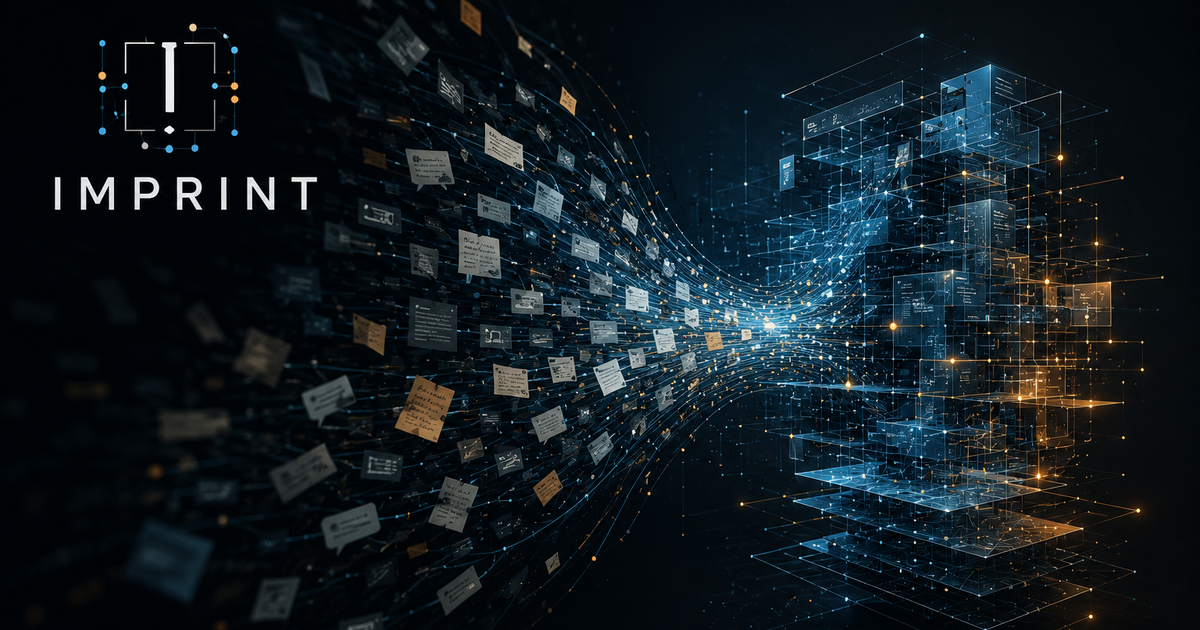
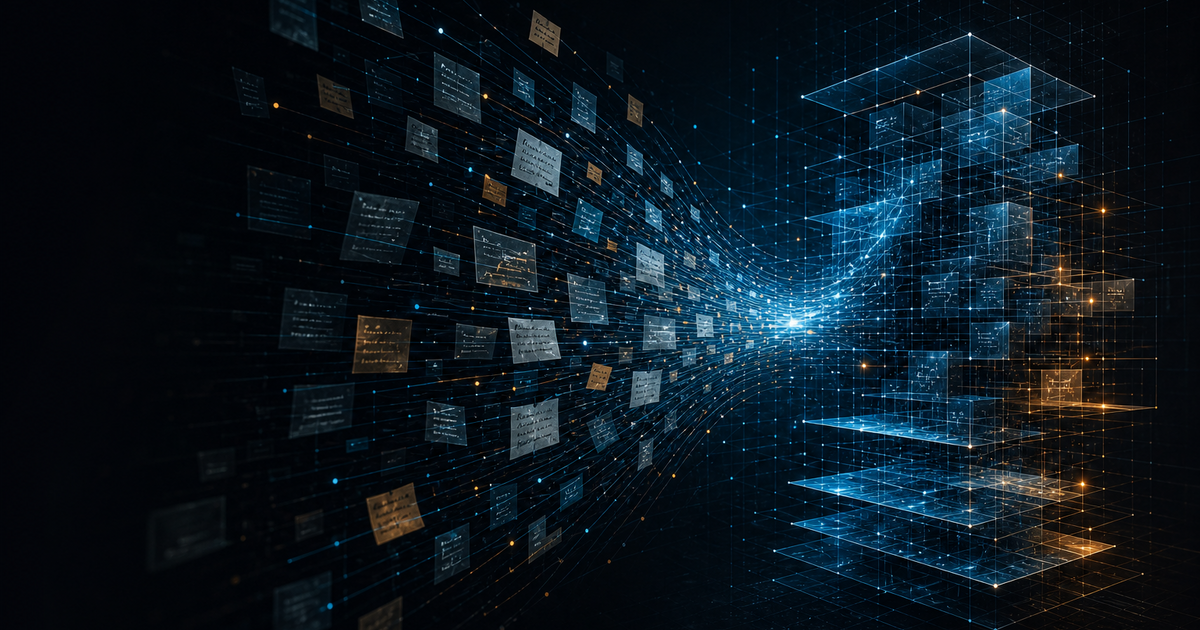
Replace OG image with Forge-generated Imprint glass aesthetic
Generate a 1200x630 social card via Forge gpt-image-2 using the hero as
a light img2img reference. Keep title text in meta tags only.

diff --git a/CHANGES.md b/CHANGES.md
@@ -1,5 +1,14 @@
 # Imprint Changelog
 
+## Sprint 10: Forge OG image — 2026-06-07
+
+**Decision:** Replace the ImageMagick-cropped `og.png` with a Forge-generated social card in the Imprint glass aesthetic.
+
+**What changed:**
+
+- `web/og.png` — new 1200×630 image via Forge `openai:gpt-image-2` (img2img from `imprint-hero.png`, strength 0.35).
+- `web/og-gen.json` — generation metadata.
+
 ## Sprint 10: ai-glass-futuristic overlay — 2026-06-07
 
 **Decision:** Apply `ai-glass-futuristic` structural DNA (glassmorphism, atmosphere, cinematic depth, motion) to the Imprint landing page while keeping the existing Imprint palette frozen. Register the result as Mosvera aesthetic `imprint`.